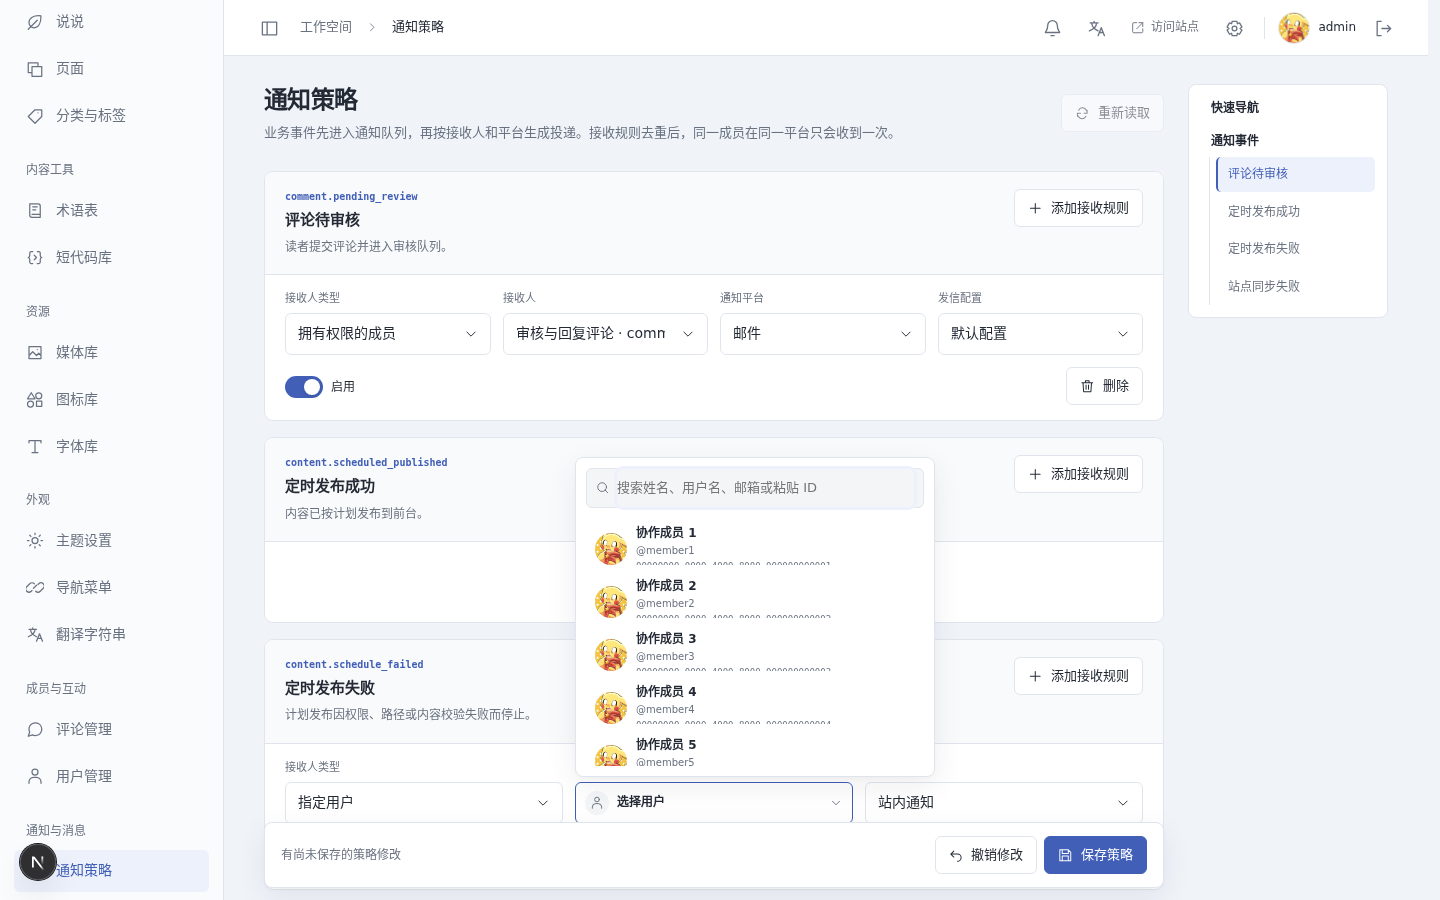
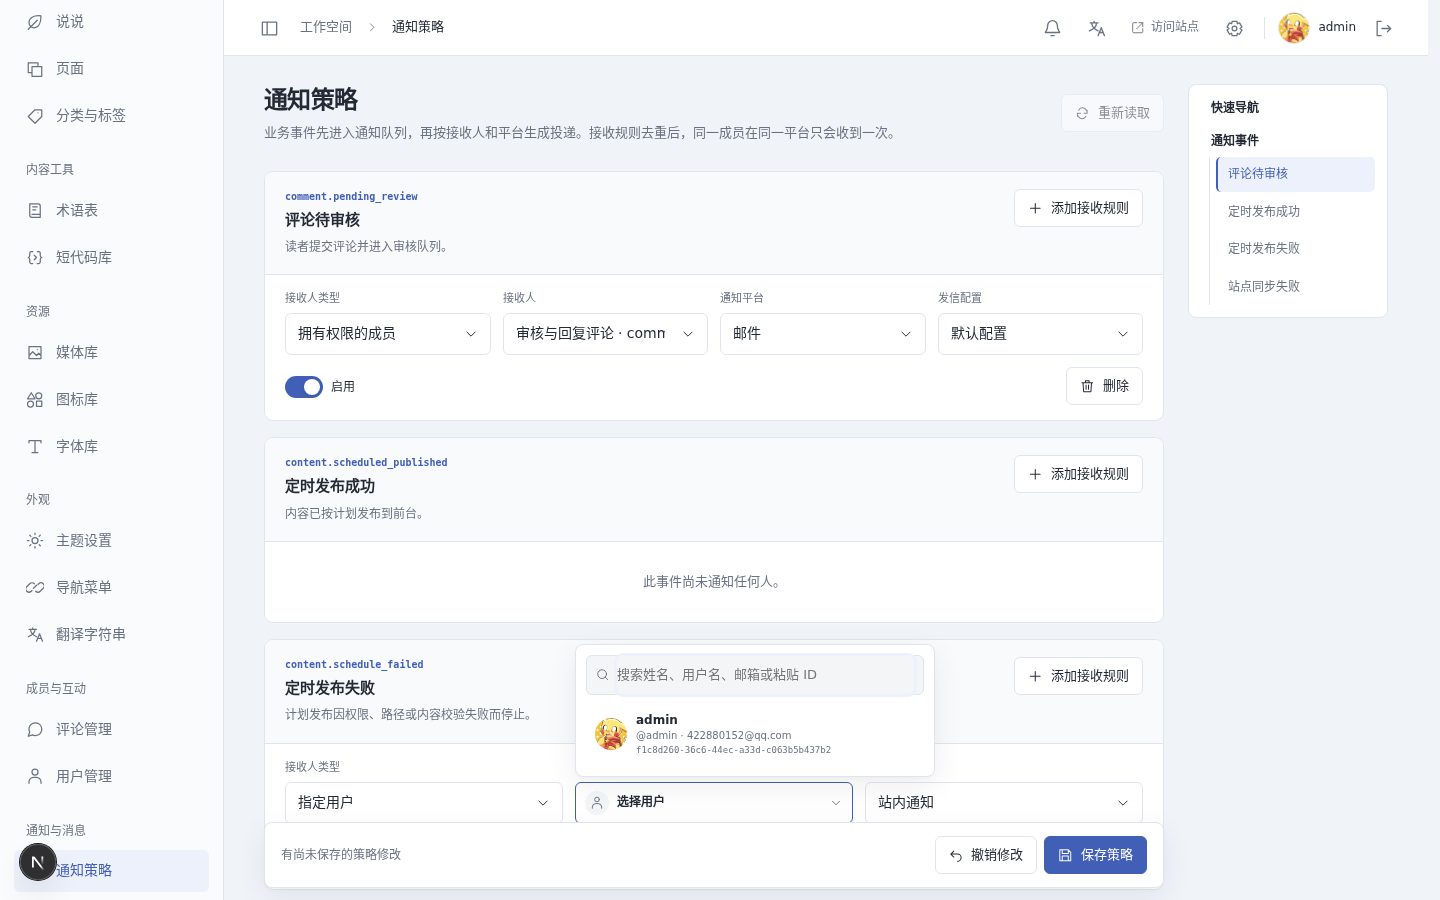
docs: record complete user picker rows

Changed region(s): [[0.4062, 0.5289, 0.5625, 0.8711]]

diff --git a/docs/handoff/notification-policy-user-picker-verification.md b/docs/handoff/notification-policy-user-picker-verification.md
@@ -1,6 +1,6 @@
 # 通知策略用户选择器与快速导航验收
 
-版本：notification-policy-user-picker-verification-3。日期：2026-11-11。对应[ADR0118](../decisions/0118-account-user-picker-and-policy-navigation.md)。
+版本：notification-policy-user-picker-verification-4。日期：2026-11-11。对应[ADR0118](../decisions/0118-account-user-picker-and-policy-navigation.md)。
 
 ## 交付范围
 
@@ -17,6 +17,7 @@
 - 修复用户弹层打开后重复刷新：翻译函数和打开回调不再作为不稳定的搜索副作用依赖，回调只在实际开关弹层时触发；输入不会在每次渲染后被清空。
 - 请求计数验证弹层首次打开只发送1次目录查询，输入`admin`后只新增1次过滤查询；分别等待900ms后请求数保持不变，搜索框内容保持`admin`。
 - 触发框固定为42px，与相邻下拉框实测41.69px误差小于1px；20用户夹具下桌面弹层高320px、结果区250px并独立滚动，移动端结果区不超过240px，弹层始终留在760px视口内。
+- 用户行不再设置54px最大高度或裁切内容，改为按名称、账号邮箱和稳定ID三行自然撑开；桌面与手机实测行高61px，`scrollHeight`不超过`clientHeight`，稳定ID底边保留至少5px内边距。
 - 1440px桌面显示“快速导航”，四个事件均可定位；390px无横向溢出，关闭后的用户弹层不占页面宽度。
 - 验收未点击保存策略，通知写请求为0，无`pageerror`或原生弹窗。
 - 临时QA会话已撤销。

diff --git a/docs/development/notifications.md b/docs/development/notifications.md
@@ -1,6 +1,6 @@
 # 通知系统与通知模板
 
-版本：notifications-13，2026-11-11。架构决定见 [ADR0113](../decisions/0113-notification-events-platforms-and-templates.md)、[ADR0117](../decisions/0117-html-notification-templates.md)与[ADR0118](../decisions/0118-account-user-picker-and-policy-navigation.md)。
+版本：notifications-14，2026-11-11。架构决定见 [ADR0113](../decisions/0113-notification-events-platforms-and-templates.md)、[ADR0117](../decisions/0117-html-notification-templates.md)与[ADR0118](../decisions/0118-account-user-picker-and-policy-navigation.md)。
 
 ## 概念
 
@@ -42,6 +42,8 @@
 选择器只在弹层实际打开时加载目录，并在查询变化后防抖一次；单纯的界面重渲染、加载状态变化或翻译函数重建不得再次请求同一列表。
 
 触发框与相邻下拉框保持同一高度。结果列表拥有独立滚动区并设置桌面与手机最大高度；用户数量增加时弹层不会继续向下增长，且必须保持在当前视口内。
+
+单个用户行按名称、账号信息和稳定 ID 的自然行高展开，不设置会裁切文字的固定高度；限高只作用于结果列表容器。
 
 桌面端右侧快速导航按事件生成，目录项与事件卡片使用同一标题；点击后定位并聚焦对应卡片。手机端不显示该目录，事件卡与接收规则改为单列。
 

diff --git a/docs/handoff/STATUS.md b/docs/handoff/STATUS.md
@@ -8,6 +8,7 @@
 - 实际修复了关闭弹层后仍占据页面宽度的CSS问题；真实后台姓名搜索、精确 UUID 搜索、Escape关闭和快速导航通过，1440px/390px无横向溢出或`pageerror`，通知写请求为0。
 - 修复弹层打开后列表反复刷新的问题：打开回调改由真实 toggle 事件触发，搜索副作用移除不稳定的翻译函数依赖；实测首次目录查询1次、输入过滤查询1次，等待后不再重复，输入也不会被清空。
 - 触发框固定42px并与相邻下拉框等高；结果区有独立滚动和桌面/手机最大高度，20用户夹具下弹层高320px，移动端保持视口内。
+- 用户条目移除54px裁切高度，按三行内容自然展开；桌面/手机实测61px，内容底边与条目边界保留内边距。
 - 完整`npm run check`370项及`npm run verify:admin`生产后台矩阵通过。仅前端代码与双仓共享文档变化，未push；临时QA会话已撤销。详见[验收](notification-policy-user-picker-verification.md)。
 
 ## 最新交付：消息总线业务事件（2026-11-11）
